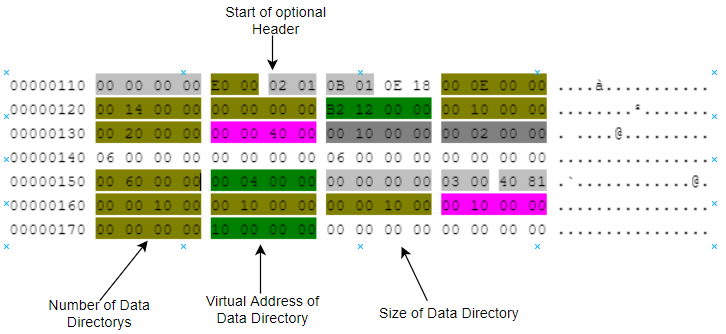
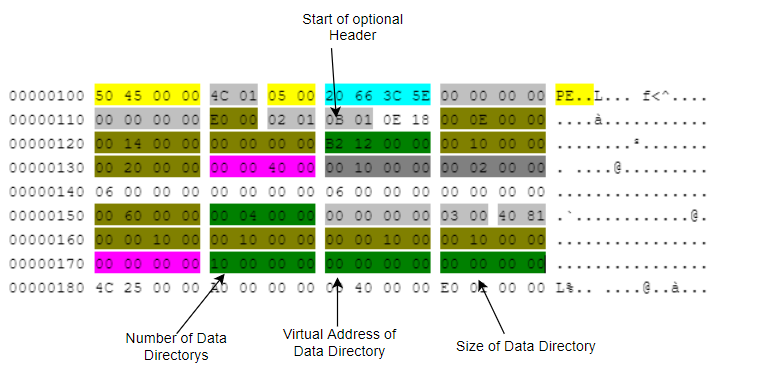
added immunity stuff

diff --git a/all_collections/_posts/2020-06-02-PortableExecutable.md b/all_collections/_posts/2020-06-02-PortableExecutable.md
@@ -7,9 +7,16 @@ categories: [""]
 ---
 
 # **Examining Windows EXEs and DLLs**
+#### Tools:
+* [HxD](https://mh-nexus.de/en/hxd/)
+* [Visual Studio](https://visualstudio.microsoft.com/de/vs/?rr=https%3A%2F%2Fwww.google.com%2F)
+* [Pe Explorer](http://www.heaventools.com/)
+* [Immunity](https://www.immunityinc.com/products/debugger/)
+
 
 
 #### This is the source code i used to create an example executable. 
+
 #### I used Visual Studio 2019s default compiler and C++
 
 #### When you dont understand something try to crossreference it with this link:
@@ -117,34 +124,37 @@ The Last 128 bytes contain the Data Directory
 |0x015c           |0x0300          |Subsytem                           |
 |0x015e           |0x4081          |DllCharacteristics  !!Important    |
 |0x0160           |0x00001000      |Size of Stack Reserve              |
-|0x0164           |0x00100000      |Size of Heap Reserve               |
-|0x0168           |0x00001000      |Size of Heap Commit                |
-|0x016c           |0x00100000      |Loader Flags [^1]                  |
-|0x0170           |0x00000000      |Number of directory entries        |
-|0x0174           |0x10000000      |Virtual address of Data directory  |
-|0x0178           |0x00000000      |Size of Data directory             |
-
+|0x0164           |0x00100000      |Size of Stack Commit               |
+|0x0168           |0x00001000      |Size of Heap Reserve               |
+|0x016c           |0x00100000      |Size of Heap Commit                |
+|0x0170           |0x00000000      |Loader Flags [^1]                  |
+|0x0174           |0x10000000      |Number of directory entries        |
+|0x0178           |0x00000000      |Virtual address of Data Dir[^2]    |
+|0x017c           |0x00000000      |Size of Data directory             |
 
 ![Optional Header](/mojo_blog/assets/pictures/portable-executable/pe-optional-header.PNG)
 
+An example how this looks mapped to memory in the debugger. [Immunity](https://www.immunityinc.com/products/debugger/) :
+
+![Pe Header. Immunity](/mojo_blog/assets/pictures/portable-executable/pe-debugger-peheader.PNG)
+
+#### Data Directory 
 
 
 
 
 
+#### Sections
 
 
+![Pe Sections. Immunity](/mojo_blog/assets/pictures/portable-executable/pe-debugger-sections.PNG)
+
+#### Footnotes:
 
 
+[^1]: Certain debuggers cant handle corrupted flags + number of RVA and sizes and will run the exe without debugging. Pretty interesting for malware.
 
-
-
-
-
-
-
-[^1]: Certain debuggers cant handle corrupted flags + number of RVA and sizes and will run the exe without debugging. Pretty interesting for Malware
-
+[^2]: That is the offset from the base address of the image. So here it would actually load at 0x10000400. Rember this is little endian so in practice it will look like 0x00400010 in the debugger.
 
 
 
